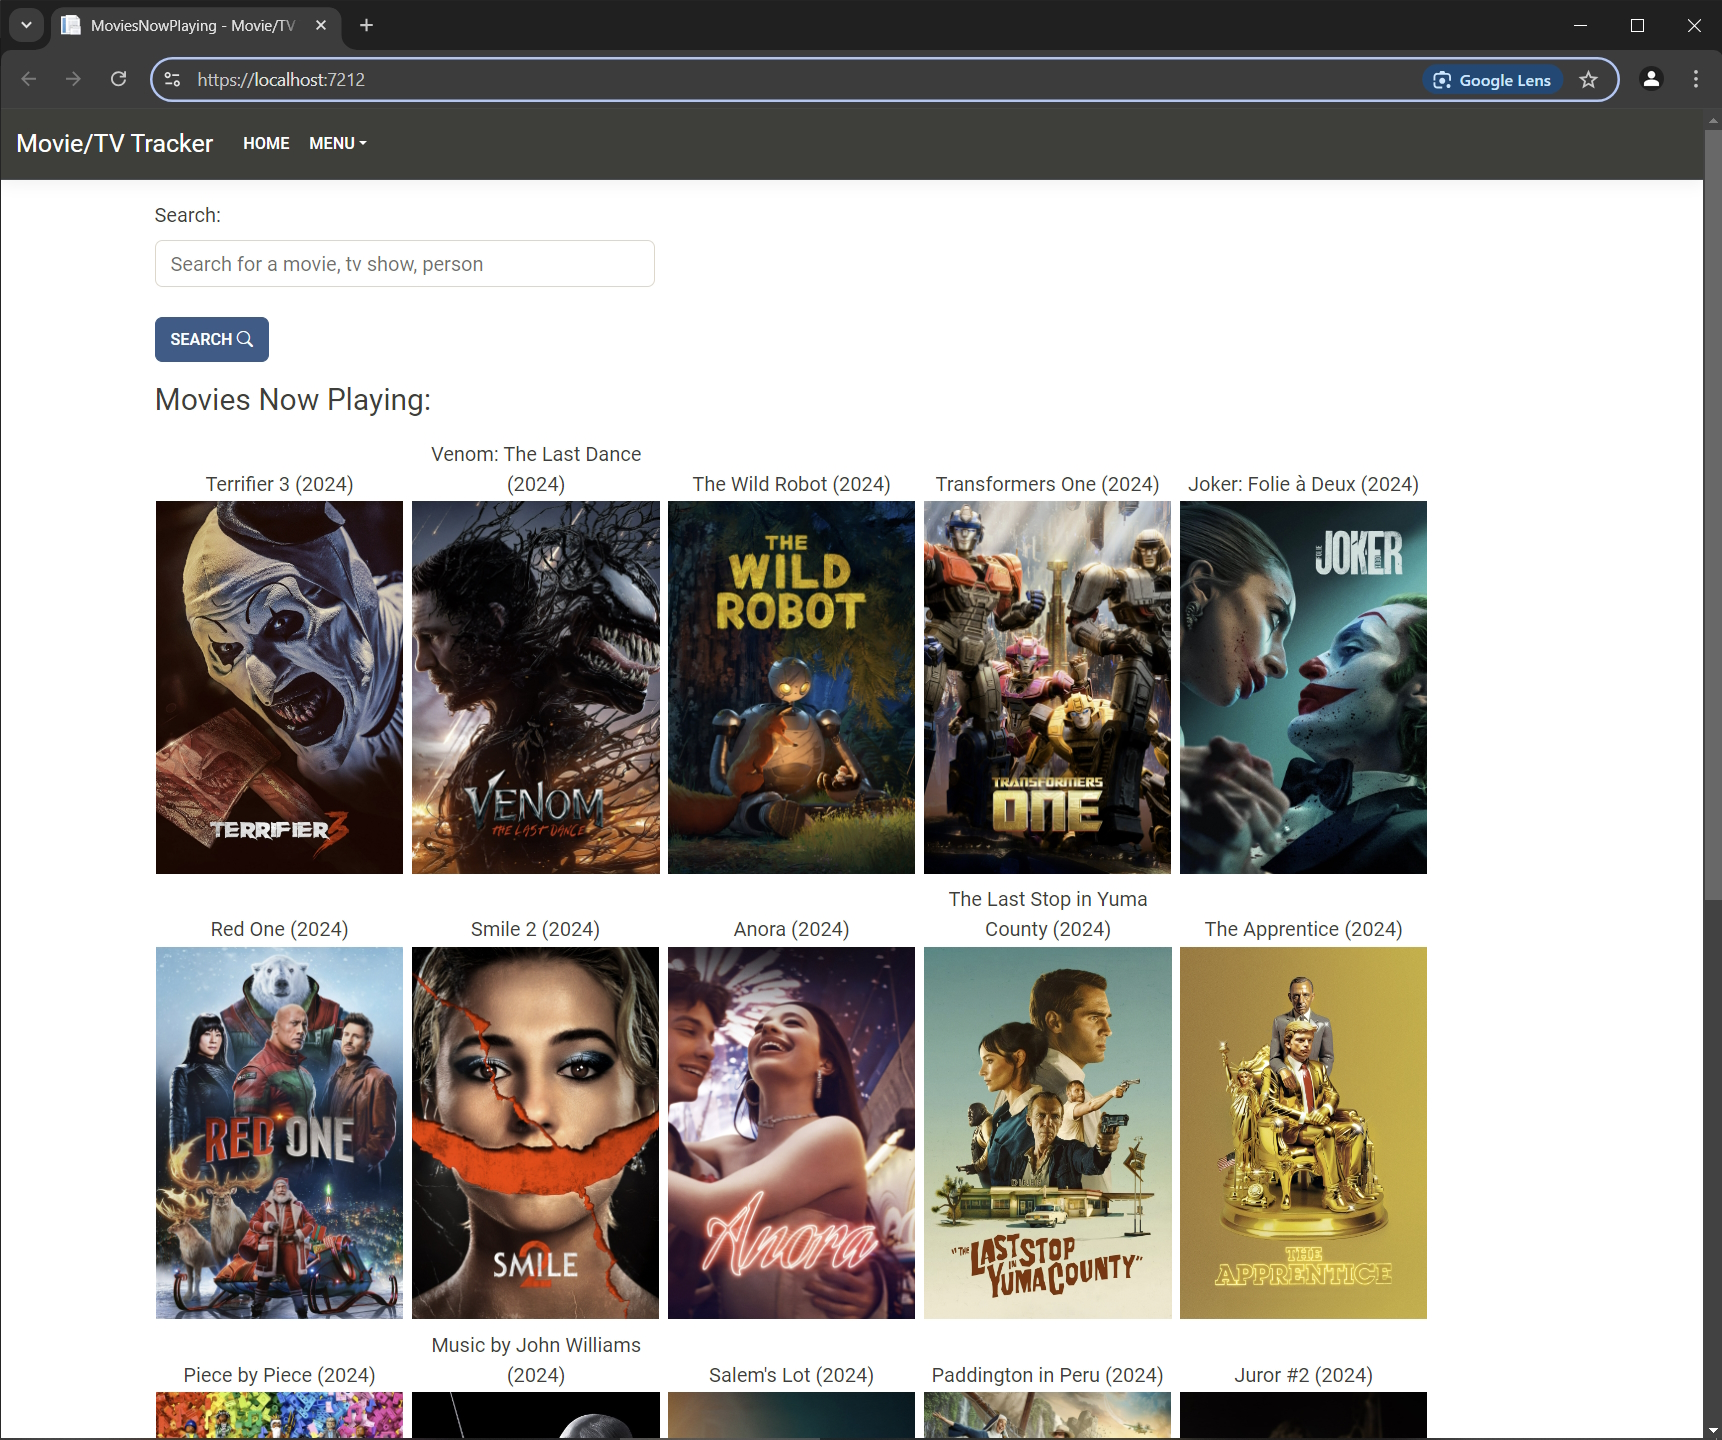
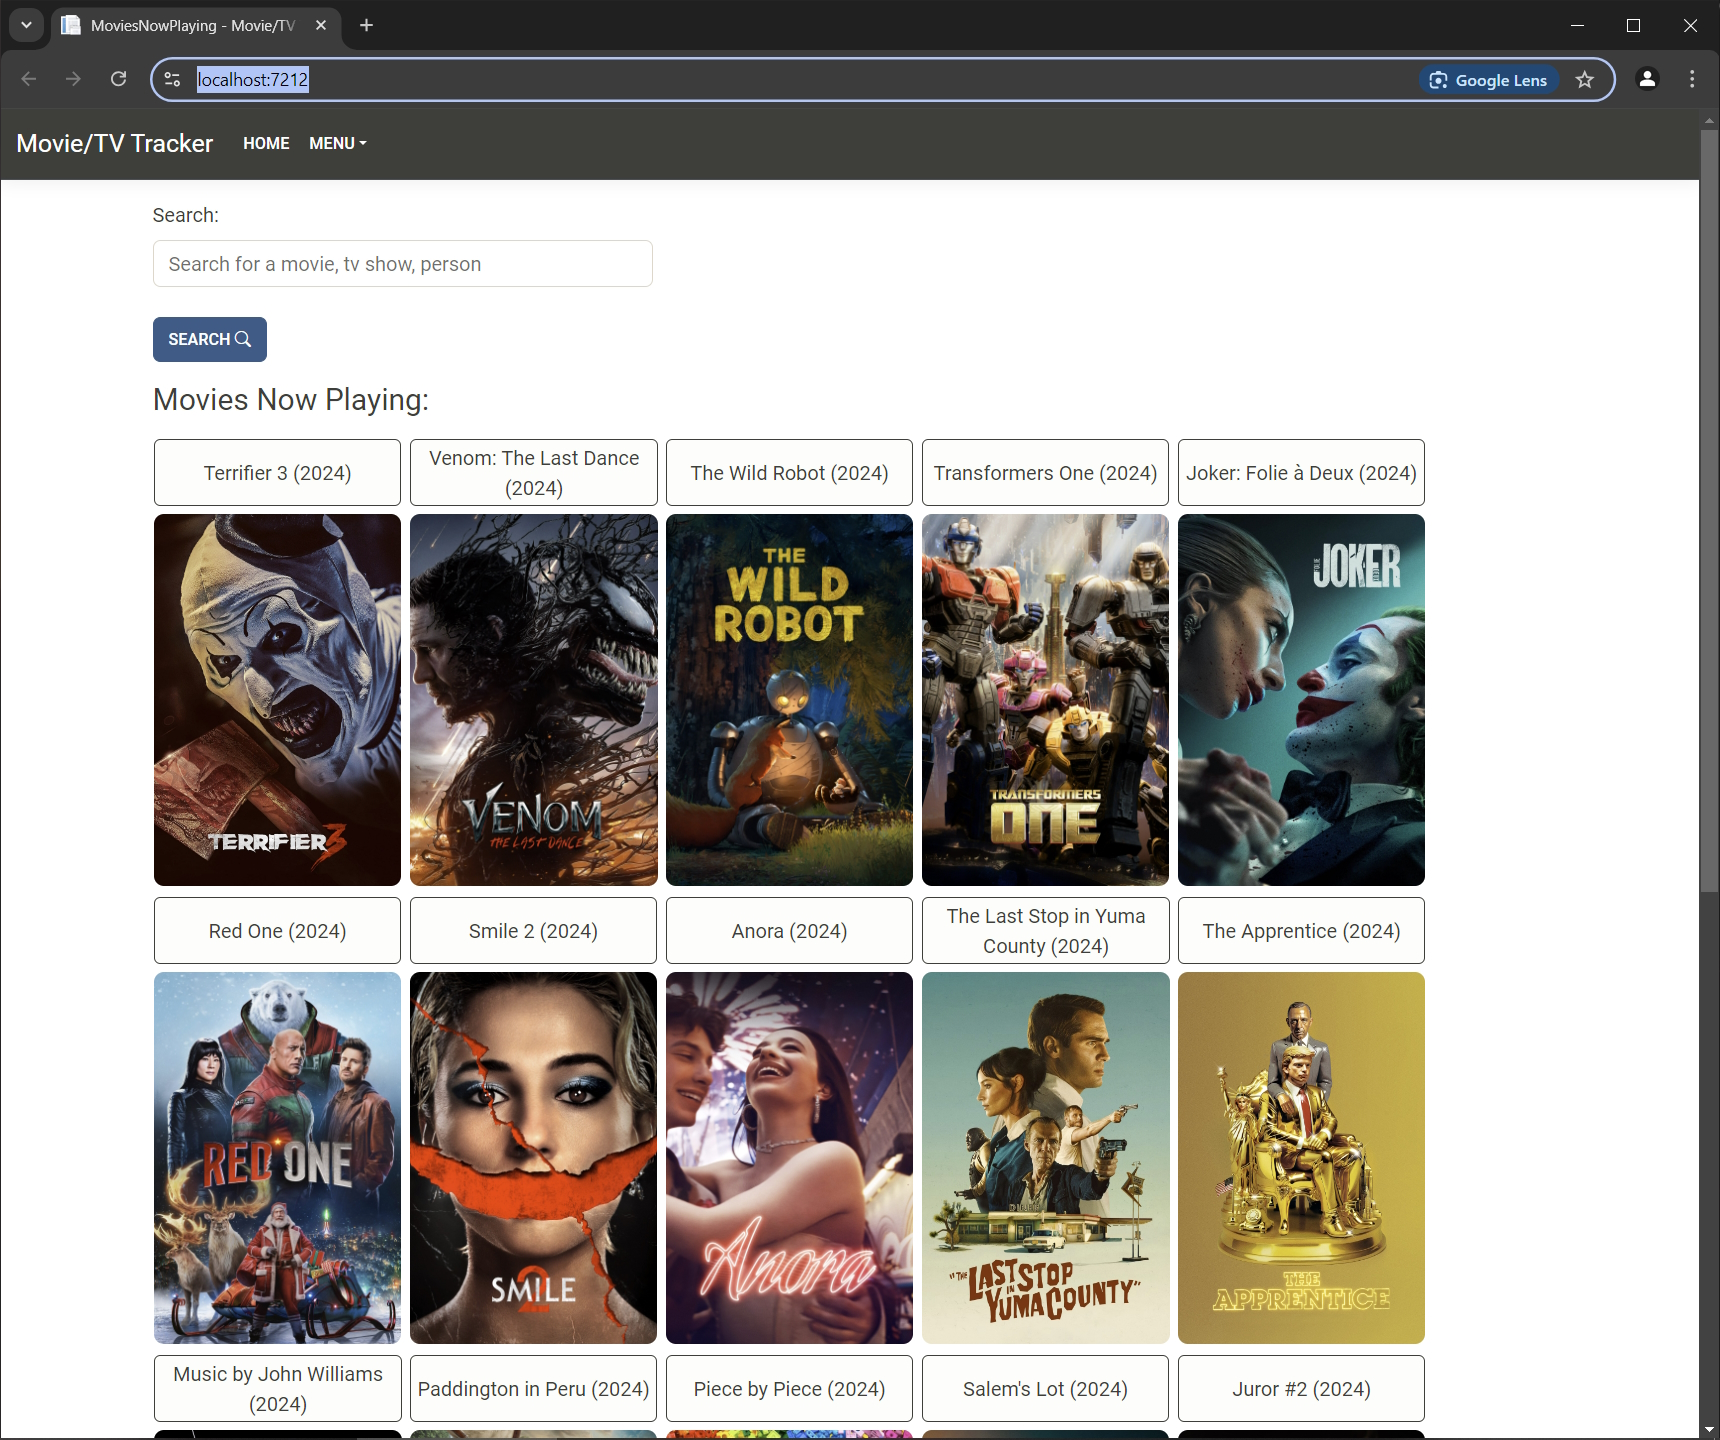
Updated GitHub images.  Stopped Movie / TV titles from exceeding allocated display space and changed the cosmetic layout.

diff --git a/MovieTvTracker.Web/wwwroot/css/site.css b/MovieTvTracker.Web/wwwroot/css/site.css
@@ -46,21 +46,26 @@ th.siteTheme {
     /*Poster sizing issues are caused if this is set to a % value*/
     width: 198px;
     height: 298px;
+    border-radius: 8px;
+    /*border-radius: 5px 25px;*/
 }
 
 .filmTvDetailPosterImgSize {
     width: 20%;
     height: 20%;
+    border-radius: 8px;
 }
 
 .castImgSize {
     width: 40%;
     height: 40%;
+    border-radius: 5px;
 }
 
 .personSearchImgSize, .myWatchedMediaImgSize, .myFavoriteActorsImgSize {
     width: 65px;
     height: 93px;
+    border-radius: 5px;
 }
 
 .personCreditsImgSize {
@@ -72,4 +77,14 @@ div.castInfoContainer {
     max-height: 25px; /* Stops a long cast members name going onto two lines */
     word-wrap: break-word;
     overflow: hidden;
+}
+
+div.titleContainer {
+    align-content: center;
+    border: solid;
+    border-width: 1px;
+    border-radius: 5px;
+    height: 54px;
+    overflow: hidden;
+    background-color: #fdfdfb;
 }
